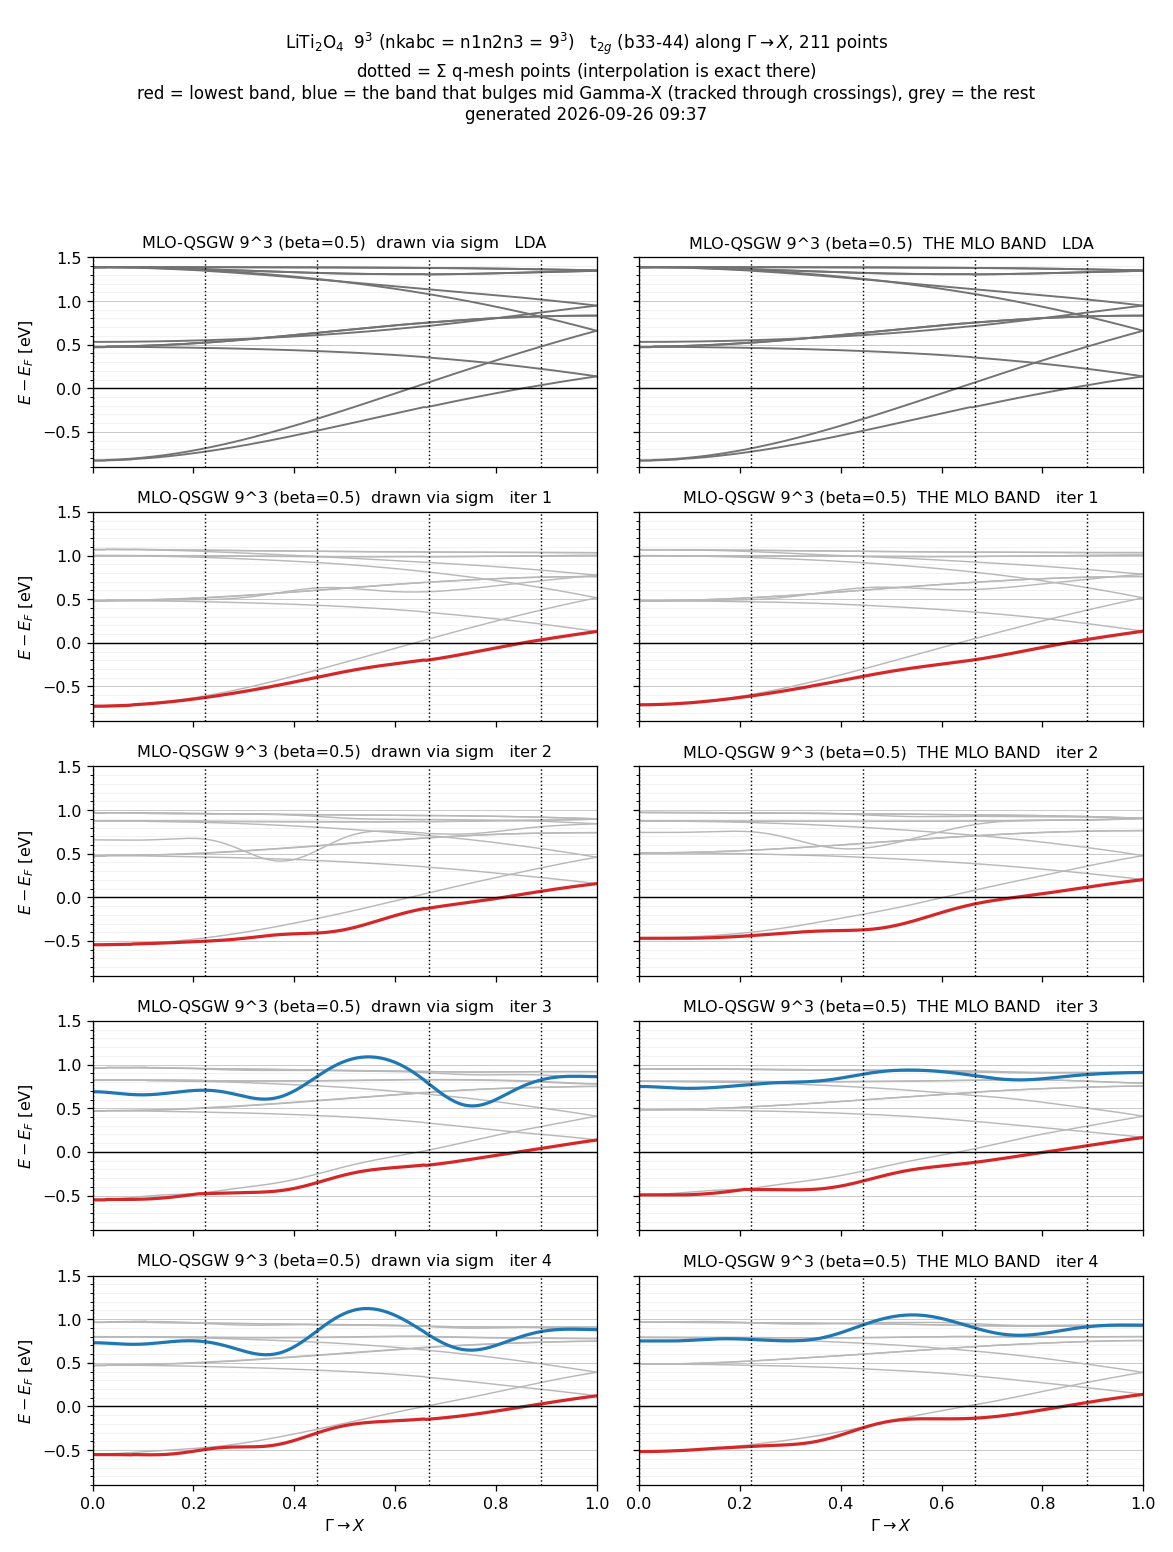
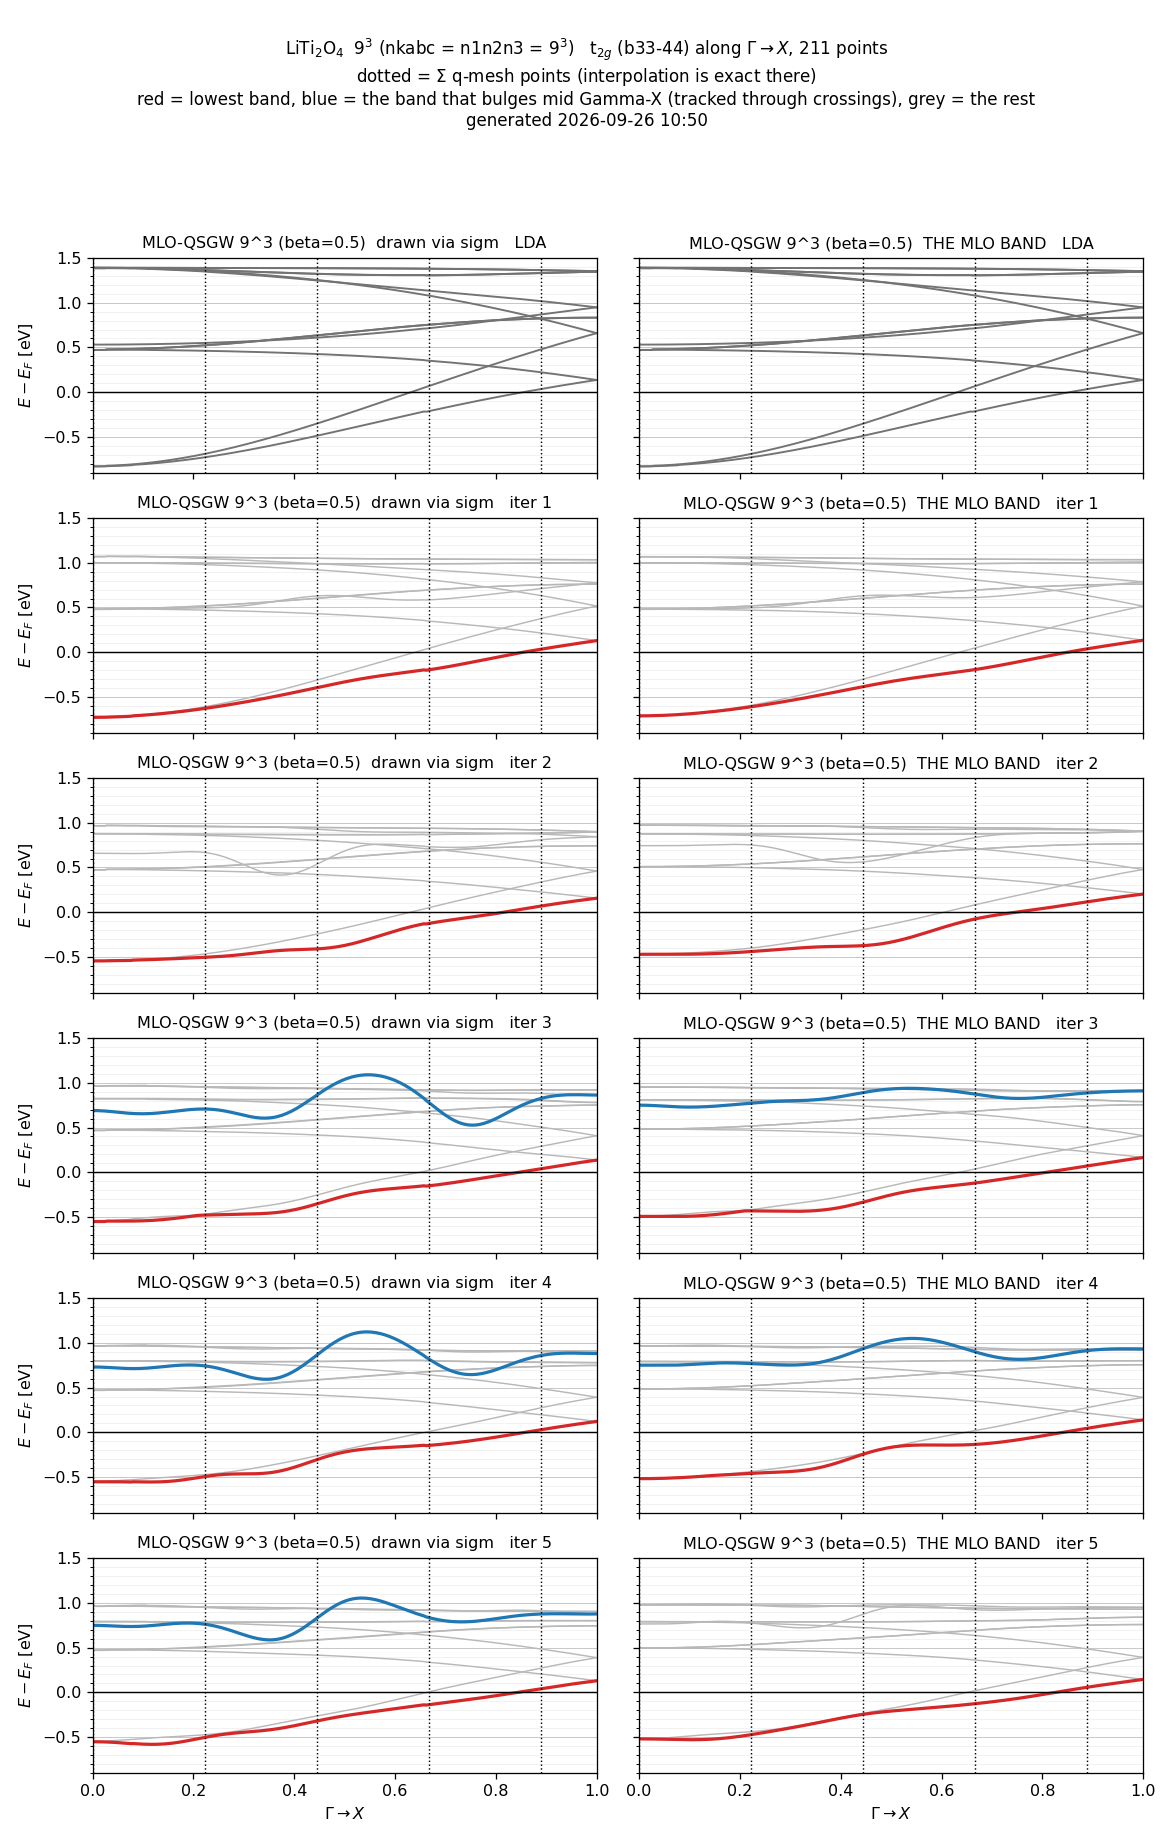
kBT_research: 9^3 iteration 5 -- clean; rms 19 -> 16 (sigm), 22 -> 19 (MLO band)

diff --git a/Samples/kBT/kBT_research.md b/Samples/kBT/kBT_research.md
@@ -15,7 +15,7 @@
 
 ## 最新の図（走行中のチェーンを映す。ここだけ上書きされる）
 
-**最終更新 2026-09-26 09:18**（9³ iter 4）／ 追っているのは **`liti_mlo_k9`**（**9³**、nmlo 126、$\Sigma^{\rm MLO}$ を β=0.5 で混合、10 反復投入、03:07 開始）。
+**最終更新 2026-09-26 10:52**（9³ iter 5）／ 追っているのは **`liti_mlo_k9`**（**9³**、nmlo 126、$\Sigma^{\rm MLO}$ を β=0.5 で混合、10 反復投入、03:07 開始）。
 6³ の v9 は 10 反復で完了し、最終図は 03:15 のエントリに凍結した。
 
 | 列 | 何を描いたか | 描き方 |
@@ -46,6 +46,7 @@
 | 2 | 06:10 | 5326 | 11 | 184 / 89 | 263 / 99 | $x_0$ を `.prev` から、MISS 0 |
 | 3 | 07:41 | 5336 | 11 | 183 / 41 | 177 / 44 | 9³ 用期待値で ANOMALY 0 |
 | 4 | 09:14 | 5427 | 10 | 103 / 19 | 111 / 22 | ANOMALY 0 |
+| 5 | 10:47 | 5435 | 6 | 96 / 16 | 107 / 19 | ANOMALY 0 |
 
 **9³ での正常値**（6³ と違うので注意。`check_iter.sh` は `CHECK_MLOON=35 CHECK_GWDRV=50 CHECK_MAXSECS=12000` で使う）
 
